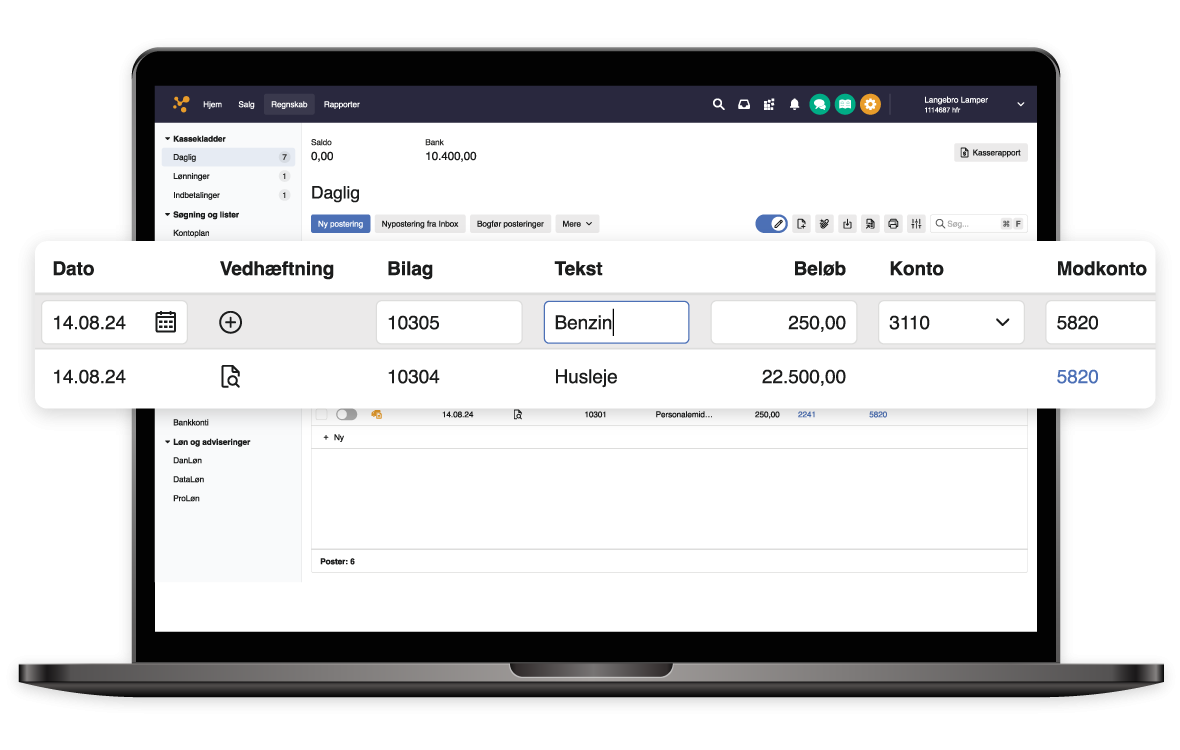
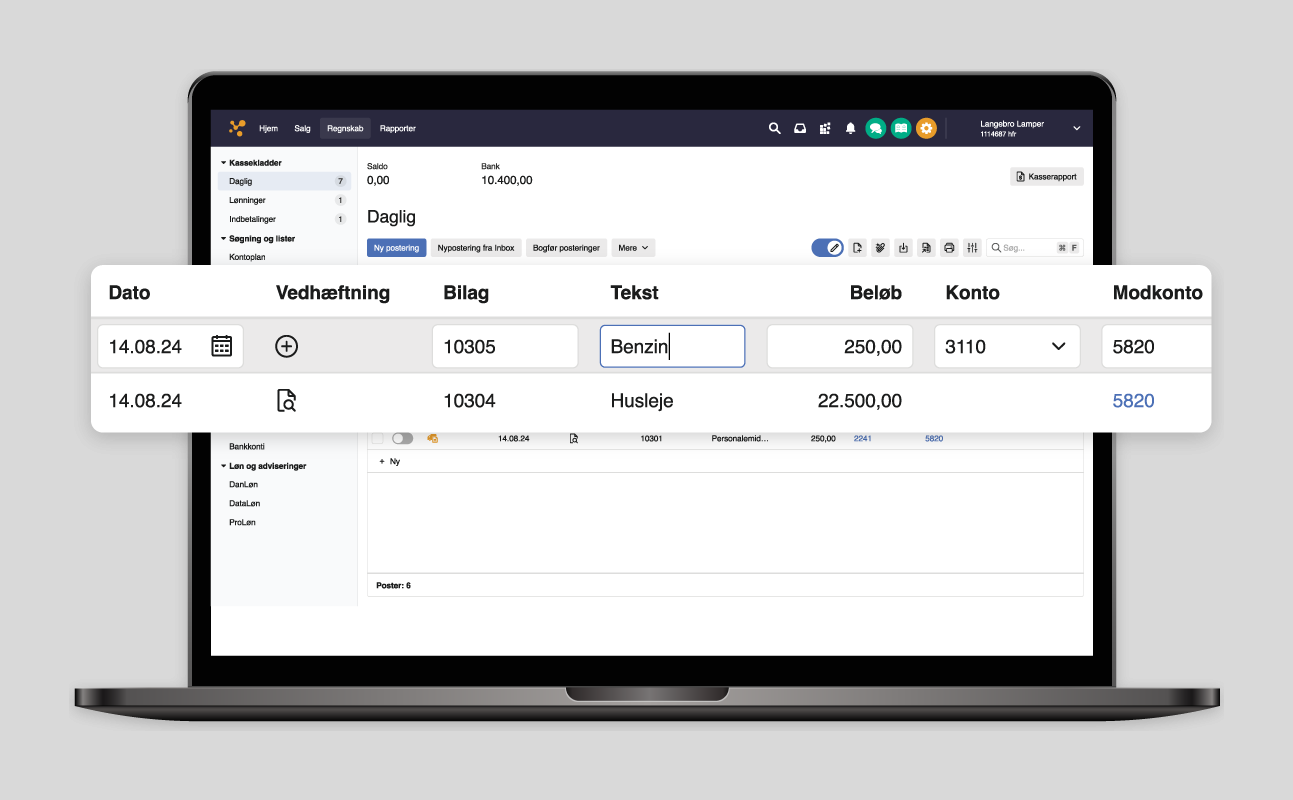
The e-conomic images join the canvas
The other cases put their subject on a grey canvas and let it float;
the e-conomic images arrived flattened onto white. The hero is now
recomposited from its transparent source directly onto the same canvas
grey the Org shots use, shadows intact, and the two support screenshots
are matted onto it with the same margins. One expression across the
whole work list.

Claude-Session: https://claude.ai/code/session_01TTN7p9yvs1uBV7gVXB89Yx

diff --git a/work/index.html b/work/index.html
@@ -90,9 +90,9 @@
 								<p>Editing booked entries used to mean reversing them by hand. Now a correction is typed where the entry stands, and the system books the reversal in the background and keeps it out of the reports. <a href="https://www.e-conomic.dk/support/artikler/rediger-bogfoerte-posteringer">The support article</a> shows the flow.</p>
 							</div>
 							<div class="drawer__media">
-								<img src="../img/work/economic/e1.png" alt="" width="1180" height="750" loading="lazy" decoding="async">
-								<img class="spaced" src="../img/work/economic/e2.png" alt="" width="1920" height="552" loading="lazy" decoding="async">
-								<img class="spaced" src="../img/work/economic/e3.png" alt="" width="1383" height="437" loading="lazy" decoding="async">
+								<img src="../img/work/economic/e1.png" alt="" width="1293" height="800" loading="lazy" decoding="async">
+								<img class="spaced" src="../img/work/economic/e2.png" alt="" width="2150" height="782" loading="lazy" decoding="async">
+								<img class="spaced" src="../img/work/economic/e3.png" alt="" width="1547" height="626" loading="lazy" decoding="async">
 							</div>
 						</div>
 					</div>
